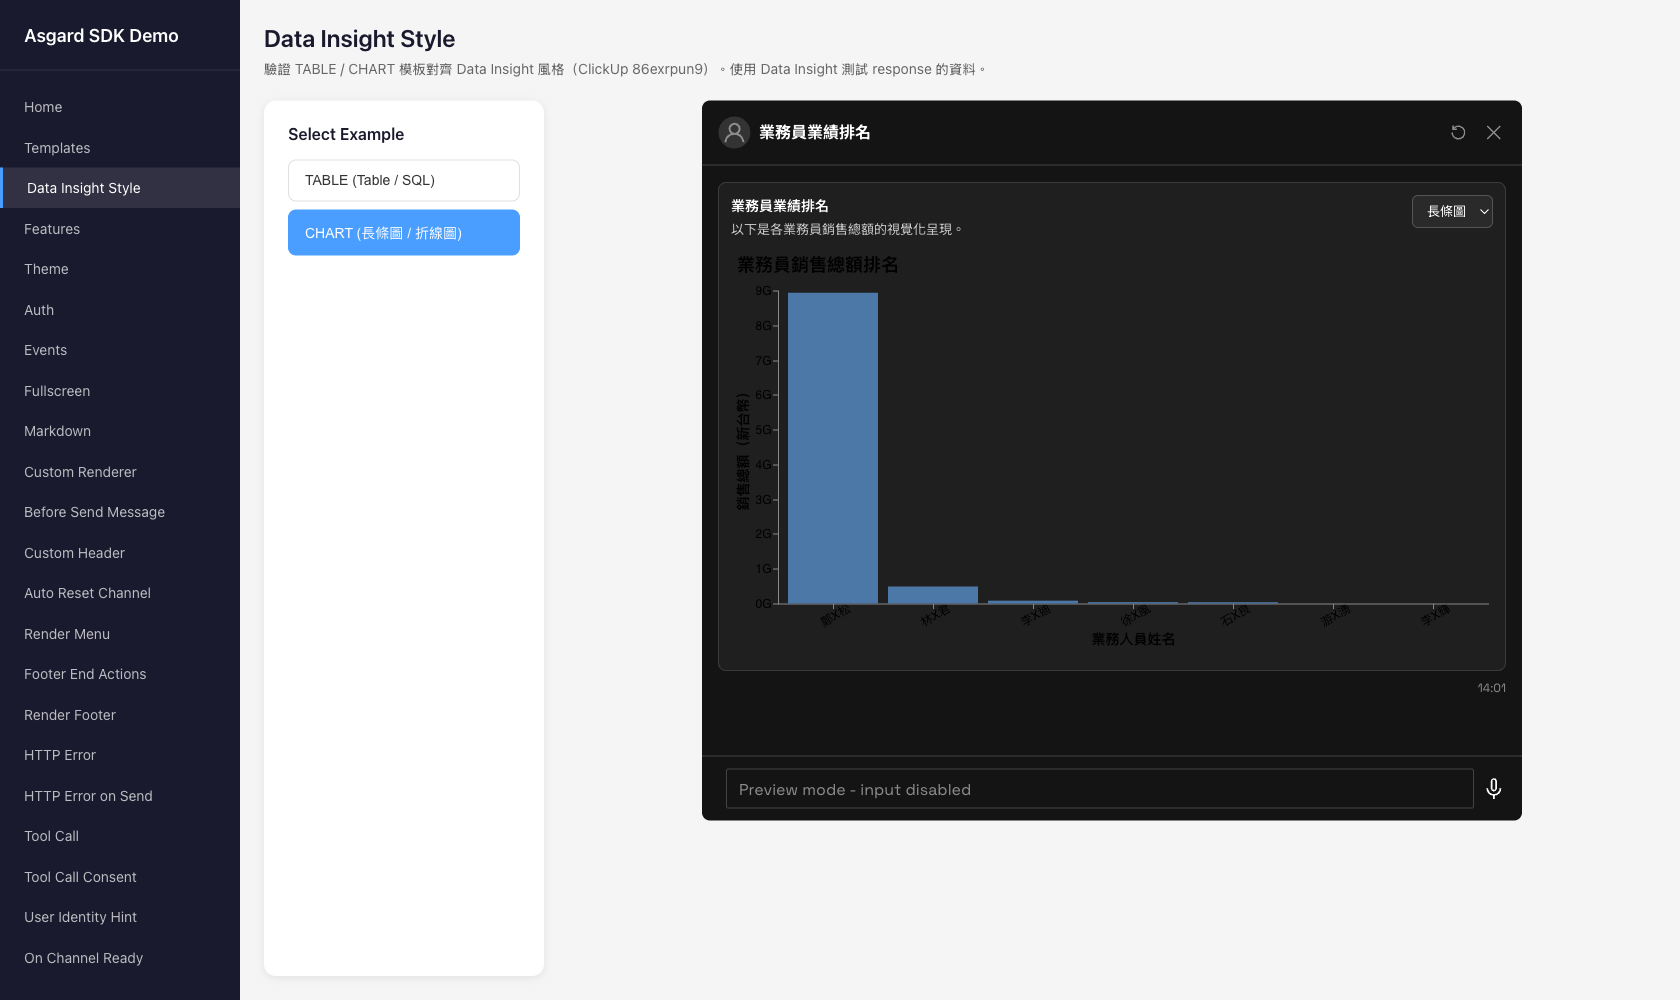
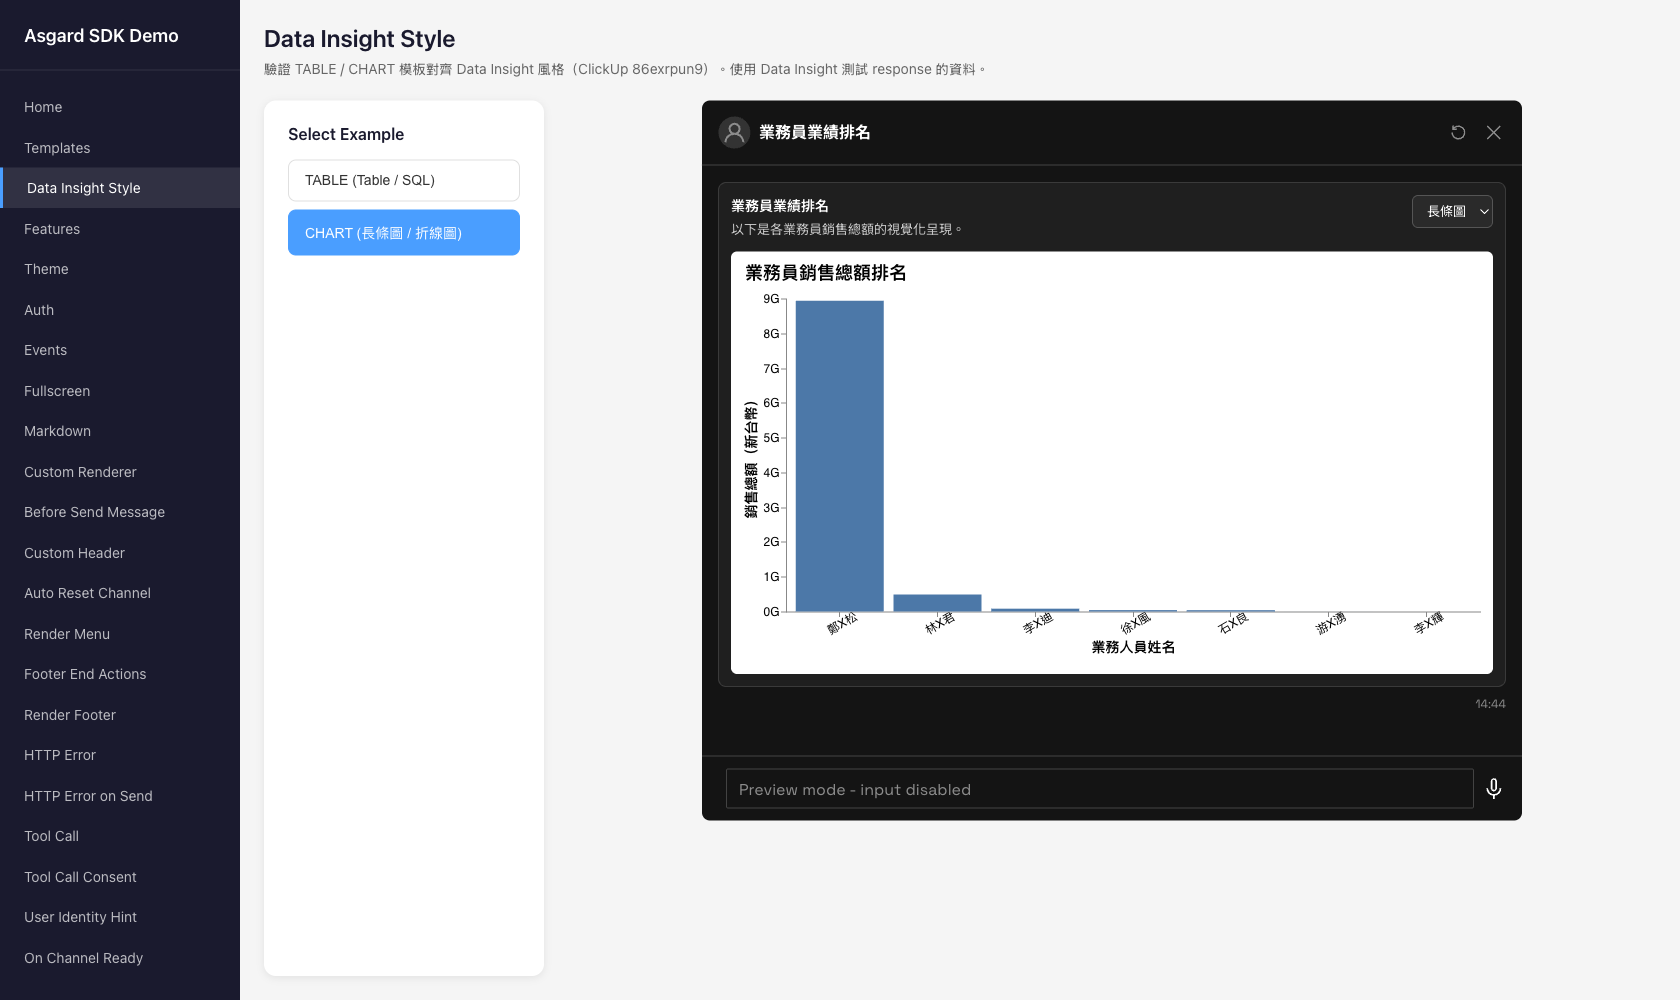
feat: complete Data Insight alignment for TABLE/CHART per ticket spec
Address the detailed requirements in the ClickUp ticket comment:
- chart: force a white background (vega spec.background = #fff + white panel) so axis labels stay readable regardless of the embedder theme
- table: download is now a menu offering CSV and JSON Lines, both generated client-side (add convertToJsonLines)
- table: numbered-page paginator (chevrons + page buttons + ellipsis) to match Data Insight's pager style
Refresh verification screenshots and add the download-menu shot.

Changed region(s): [[0.4333, 0.248, 0.8976, 0.713]]

diff --git a/packages/react/src/components/templates/table-template/table-template.tsx b/packages/react/src/components/templates/table-template/table-template.tsx
@@ -19,6 +19,8 @@ interface TableTemplateProps {
 
 type TableTab = 'table' | 'sql';
 
+type DownloadFormat = 'csv' | 'jsonl';
+
 interface SnackbarState {
   visible: boolean;
   fileName: string;
@@ -86,6 +88,48 @@ function convertToCsv(
   return [headers, ...rows].join('\n');
 }
 
+function convertToJsonLines(
+  columns: TableColumn[],
+  data: Record<string, unknown>[] | unknown[][],
+  rowType: TableRowType,
+): string {
+  return data
+    .map(row => {
+      const obj: Record<string, unknown> = {};
+
+      columns.forEach((column, colIndex) => {
+        const key = column.key ?? column.header;
+
+        obj[key] = getCellValue(row, column, colIndex, rowType);
+      });
+
+      return JSON.stringify(obj);
+    })
+    .join('\n');
+}
+
+function getPageItems(current: number, total: number): (number | 'ellipsis')[] {
+  if (total <= 7) {
+    return Array.from({ length: total }, (_, i) => i + 1);
+  }
+
+  const items: (number | 'ellipsis')[] = [1];
+  const start = Math.max(2, current - 1);
+  const end = Math.min(total - 1, current + 1);
+
+  if (start > 2) items.push('ellipsis');
+
+  for (let page = start; page <= end; page++) {
+    items.push(page);
+  }
+
+  if (end < total - 1) items.push('ellipsis');
+
+  items.push(total);
+
+  return items;
+}
+
 function DownloadIcon(): ReactNode {
   return (
     <svg width="16" height="16" viewBox="0 0 24 24" fill="none" stroke="currentColor" strokeWidth="2">
@@ -107,6 +151,7 @@ export function TableTemplate(props: TableTemplateProps): ReactNode {
   const { template: themeTemplate, botMessage } = useAsgardThemeContext();
 
   const [activeTab, setActiveTab] = useState<TableTab>('table');
+  const [downloadMenuOpen, setDownloadMenuOpen] = useState(false);
   const [currentPage, setCurrentPage] = useState(1);
   const [snackbar, setSnackbar] = useState<SnackbarState>({
     visible: false,
@@ -142,25 +187,32 @@ export function TableTemplate(props: TableTemplateProps): ReactNode {
     setCurrentPage(prev => Math.min(totalPages, prev + 1));
   };
 
-  const handleDownload = useCallback((): void => {
-    const csvContent = convertToCsv(columns, data, rowType);
-    const BOM = '\uFEFF';
-    const blob = new Blob([BOM + csvContent], { type: 'text/csv;charset=utf-8;' });
-    const blobUrl = URL.createObjectURL(blob);
+  const handleDownload = useCallback(
+    (format: DownloadFormat): void => {
+      const content =
+        format === 'jsonl'
+          ? convertToJsonLines(columns, data, rowType)
+          : `\uFEFF${convertToCsv(columns, data, rowType)}`;
+      const mimeType = format === 'jsonl' ? 'application/x-ndjson;charset=utf-8;' : 'text/csv;charset=utf-8;';
+      const blob = new Blob([content], { type: mimeType });
+      const blobUrl = URL.createObjectURL(blob);
 
-    const timestamp = new Date().toISOString().slice(0, 10);
-    const safeTitle = (title || 'table').replace(/[^a-zA-Z0-9\u4e00-\u9fff]/g, '_');
-    const fileName = `${safeTitle}_${timestamp}.csv`;
+      const timestamp = new Date().toISOString().slice(0, 10);
+      const safeTitle = (title || 'table').replace(/[^a-zA-Z0-9\u4e00-\u9fff]/g, '_');
+      const fileName = `${safeTitle}_${timestamp}.${format}`;
 
-    const link = document.createElement('a');
-    link.href = blobUrl;
-    link.download = fileName;
-    document.body.appendChild(link);
-    link.click();
-    document.body.removeChild(link);
+      const link = document.createElement('a');
+      link.href = blobUrl;
+      link.download = fileName;
+      document.body.appendChild(link);
+      link.click();
+      document.body.removeChild(link);
 
-    setSnackbar({ visible: true, fileName, blobUrl });
-  }, [columns, data, rowType, title]);
+      setDownloadMenuOpen(false);
+      setSnackbar({ visible: true, fileName, blobUrl });
+    },
+    [columns, data, rowType, title],
+  );
 
   const handleOpenFile = useCallback((): void => {
     if (snackbar.blobUrl) {
@@ -221,14 +273,39 @@ export function TableTemplate(props: TableTemplateProps): ReactNode {
           <div className={classes.header}>
             {title && <div className={classes.title}>{title}</div>}
             {activeTab === 'table' && data.length > 0 && (
-              <button
-                className={classes.download_button}
-                onClick={handleDownload}
-                aria-label="Download CSV"
-                title="Download CSV"
-              >
-                <DownloadIcon />
-              </button>
+              <div className={classes.download}>
+                <button
+                  className={classes.download_button}
+                  onClick={() => setDownloadMenuOpen(prev => !prev)}
+                  aria-label="Download"
+                  aria-haspopup="menu"
+                  aria-expanded={downloadMenuOpen}
+                  title="Download"
+                >
+                  <DownloadIcon />
+                </button>
+                {downloadMenuOpen && (
+                  <>
+                    <div className={classes.download_backdrop} onClick={() => setDownloadMenuOpen(false)} />
+                    <div className={classes.download_menu} role="menu">
+                      <button
+                        className={classes.download_menu_item}
+                        role="menuitem"
+                        onClick={() => handleDownload('csv')}
+                      >
+                        CSV
+                      </button>
+                      <button
+                        className={classes.download_menu_item}
+                        role="menuitem"
+                        onClick={() => handleDownload('jsonl')}
+                      >
+                        JSON Lines
+                      </button>
+                    </div>
+                  </>
+                )}
+              </div>
             )}
           </div>
 
@@ -294,9 +371,25 @@ export function TableTemplate(props: TableTemplateProps): ReactNode {
                   >
                     &lt;
                   </button>
-                  <span className={classes.pagination_info}>
-                    {currentPage} / {totalPages}
-                  </span>
+                  {getPageItems(currentPage, totalPages).map((item, index) =>
+                    item === 'ellipsis' ? (
+                      <span key={`ellipsis-${index}`} className={classes.pagination_ellipsis}>
+                        …
+                      </span>
+                    ) : (
+                      <button
+                        key={item}
+                        className={clsx(
+                          classes.pagination_page,
+                          item === currentPage && classes['pagination_page--active'],
+                        )}
+                        onClick={() => setCurrentPage(item)}
+                        aria-current={item === currentPage ? 'page' : undefined}
+                      >
+                        {item}
+                      </button>
+                    ),
+                  )}
                   <button
                     className={classes.pagination_button}
                     onClick={handleNextPage}

diff --git a/packages/react/src/components/templates/table-template/table-template.module.scss b/packages/react/src/components/templates/table-template/table-template.module.scss
@@ -28,9 +28,7 @@
   font-weight: 500;
   cursor: pointer;
   opacity: 0.6;
-  transition:
-    opacity 0.2s,
-    border-color 0.2s;
+  transition: opacity 0.2s, border-color 0.2s;
 
   &:hover {
     opacity: 0.85;
@@ -74,6 +72,46 @@
 
   &:active {
     background: rgba(255, 255, 255, 0.3);
+  }
+}
+
+.download {
+  position: relative;
+}
+
+.download_backdrop {
+  position: fixed;
+  inset: 0;
+  z-index: 1;
+}
+
+.download_menu {
+  position: absolute;
+  top: calc(100% + 4px);
+  right: 0;
+  z-index: 2;
+  display: flex;
+  flex-direction: column;
+  min-width: 120px;
+  padding: 4px;
+  background: rgba(40, 40, 40, 0.98);
+  border: 1px solid rgba(255, 255, 255, 0.15);
+  border-radius: 8px;
+  box-shadow: 0 4px 12px rgba(0, 0, 0, 0.3);
+}
+
+.download_menu_item {
+  padding: 8px 12px;
+  border: none;
+  border-radius: 4px;
+  background: transparent;
+  color: inherit;
+  font-size: 13px;
+  text-align: left;
+  cursor: pointer;
+
+  &:hover {
+    background: rgba(255, 255, 255, 0.1);
   }
 }
 
@@ -163,9 +201,34 @@
   }
 }
 
-.pagination_info {
+.pagination_page {
+  display: flex;
+  align-items: center;
+  justify-content: center;
+  min-width: 32px;
+  height: 32px;
+  padding: 0 8px;
+  border: 1px solid rgba(255, 255, 255, 0.2);
+  border-radius: 6px;
+  background: transparent;
+  color: inherit;
   font-size: 13px;
-  padding: 0 12px;
+  cursor: pointer;
+
+  &:hover {
+    background: rgba(255, 255, 255, 0.1);
+  }
+}
+
+.pagination_page--active {
+  background: rgba(255, 255, 255, 0.15);
+  font-weight: 600;
+}
+
+.pagination_ellipsis {
+  padding: 0 4px;
+  font-size: 13px;
+  opacity: 0.6;
 }
 
 .empty_state {

diff --git a/packages/react/src/components/templates/chart-template/chart-template.tsx b/packages/react/src/components/templates/chart-template/chart-template.tsx
@@ -46,12 +46,15 @@ export function ChartTemplate(props: ChartTemplateProps): ReactNode {
   }, []);
 
   const responsiveSpec = useMemo<VisualizationSpec>(() => {
-    if (!chartWidth) return spec;
-
     const cloned = JSON.parse(JSON.stringify(spec)) as Record<string, unknown>;
 
-    cloned.width = chartWidth;
-    cloned.autosize = { type: 'fit', resize: true, contains: 'padding' };
+    // Data Insight 要求圖表固定白色背景，避免在深色主題下軸標等文字不可讀。
+    cloned.background = '#ffffff';
+
+    if (chartWidth) {
+      cloned.width = chartWidth;
+      cloned.autosize = { type: 'fit', resize: true, contains: 'padding' };
+    }
 
     return cloned as unknown as VisualizationSpec;
   }, [spec, chartWidth]);

diff --git a/packages/react/src/components/templates/chart-template/chart-template.module.scss b/packages/react/src/components/templates/chart-template/chart-template.module.scss
@@ -54,6 +54,9 @@
 .chart_wrapper {
   width: 100%;
   overflow-x: auto;
+  background: #ffffff;
+  border-radius: 6px;
+  padding: 8px;
 }
 
 .chart_time {
